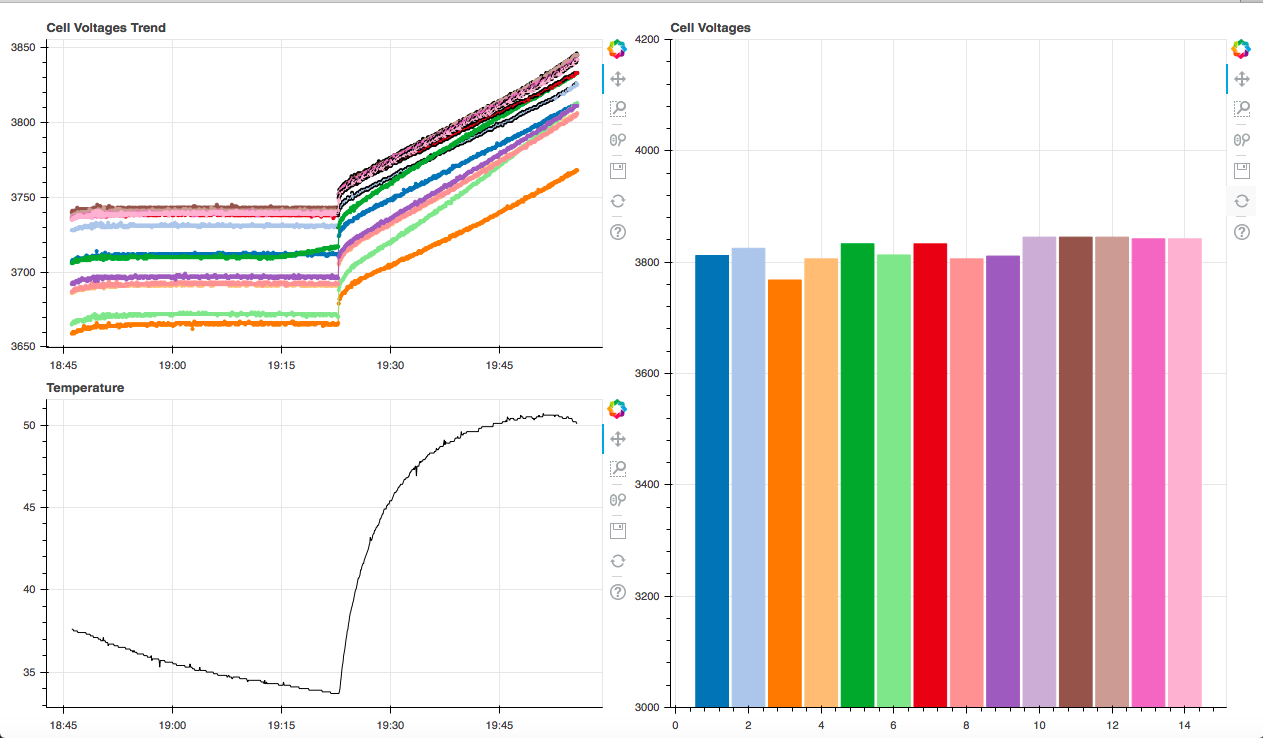
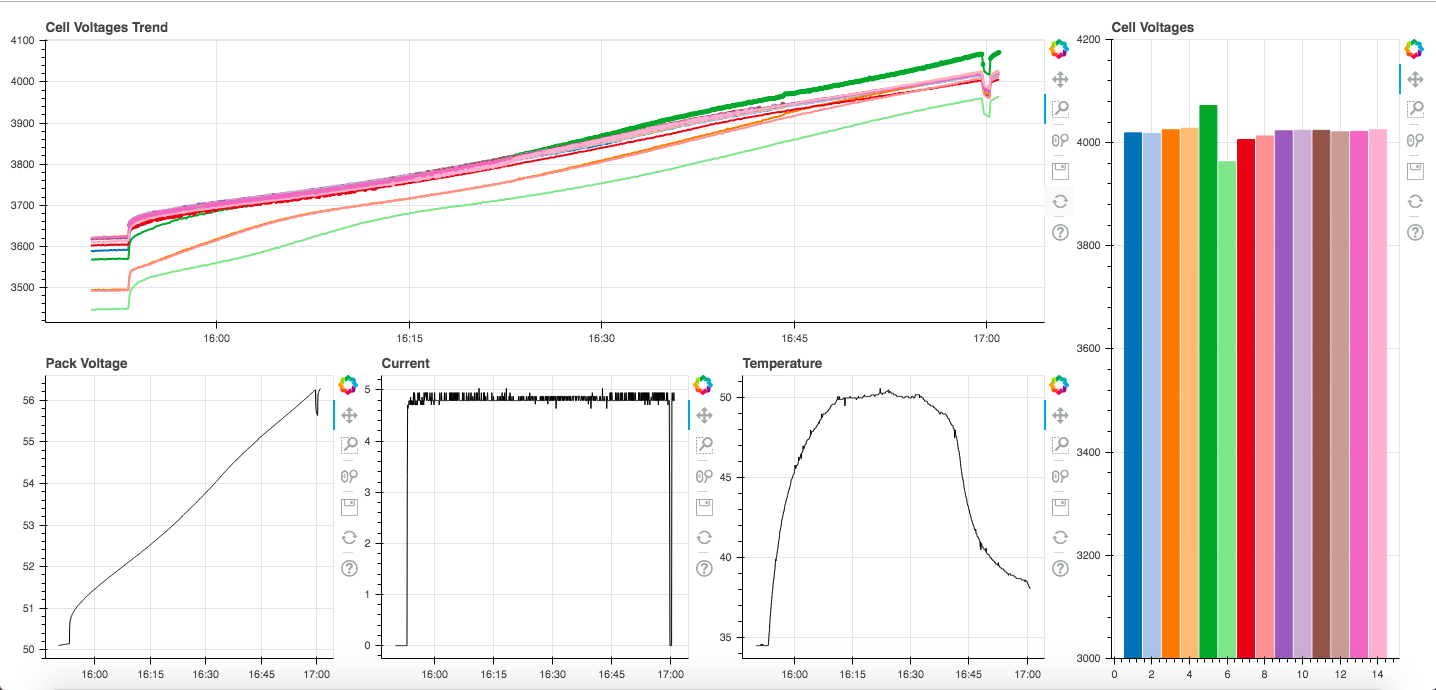
adds current and voltage trends

diff --git a/bokeh_battery_app.py b/bokeh_battery_app.py
@@ -30,7 +30,10 @@ def make_document(doc):
         balances = '{:016b}'.format(balance)
 
         # get pack current and temp
-        current = np.array(client.read_holding_registers(38, 2, unit=0xAA).registers, dtype=np.uint16).view(dtype=np.float32)[0]
+        current = np.array(client.read_holding_registers(38, 2, unit=0xAA).registers,
+                           dtype=np.uint16).view(dtype=np.float32)[0]
+        voltage = np.array(client.read_holding_registers(36, 2, unit=0xAA).registers,
+                           dtype=np.uint16).view(dtype=np.float32)[0]
         temperature = client.read_holding_registers(48, 2, unit=0xAA).registers[0]/10.
 
         # update trend source
@@ -42,6 +45,8 @@ def make_document(doc):
         trend_source.stream(new)
 
         temp_source.stream({'x':[sample_time], 't':[temperature]})
+        current_source.stream({'ts':[sample_time], 'current':[current]})
+        voltage_source.stream({'ts':[sample_time], 'voltage':[voltage]})
 
         # update bar source
         bar_source.data['c'] = [palette[i-1] for i in cells]
@@ -74,6 +79,8 @@ def make_document(doc):
 
     bar_source = ColumnDataSource({'x': cells, 'v': [], 'c':[]})
     temp_source = ColumnDataSource({'x':[], 't':[]})
+    current_source = ColumnDataSource({'ts':[], 'current':[]})
+    voltage_source = ColumnDataSource({'ts':[], 'voltage':[]})
 
     # set up graphs and callback
     doc.add_periodic_callback(update, 5000)
@@ -82,6 +89,8 @@ def make_document(doc):
     bar_fig = figure(title='Cell Voltages', y_range=[3000, 4200])
     trend_fig = figure(title='Cell Voltages Trend', x_axis_type='datetime')
     temp_fig = figure(title='Temperature', x_axis_type='datetime')
+    current_fig = figure(title='Current', x_axis_type='datetime')
+    voltage_fig = figure(title='Pack Voltage', x_axis_type='datetime')
 
     # generate trend lines and data points
     for i in cells:
@@ -89,12 +98,15 @@ def make_document(doc):
         color = 'c{}'.format(i)
         size = 's{}'.format(i)
         trend_fig.circle(source=trend_source, x='x', y=voltage, color=color, size=size)
-        trend_fig.line(source=trend_source, x='x', y=voltage, color=palette[i-1])
+        trend_fig.line(source=trend_source, x='x', y=voltage, color=palette[i-1], line_width=2)
 
     bar_fig.vbar(source=bar_source, x='x', top='v', color='c', width=0.9)
     temp_fig.line(source=temp_source, x='x', y='t', color='black')
+    current_fig.line(source=current_source, x='ts', y='current', color='black')
+    voltage_fig.line(source=voltage_source, x='ts', y='voltage', color='black')
 
-    plots = grid(row(column(trend_fig, temp_fig), bar_fig), sizing_mode='stretch_both')
+    plots = grid(row(column(trend_fig, row(voltage_fig, current_fig, temp_fig)), bar_fig),
+                 sizing_mode='stretch_both')
     doc.add_root(plots)
     doc.title = "Energus BMS Real-Time Voltages"
 
